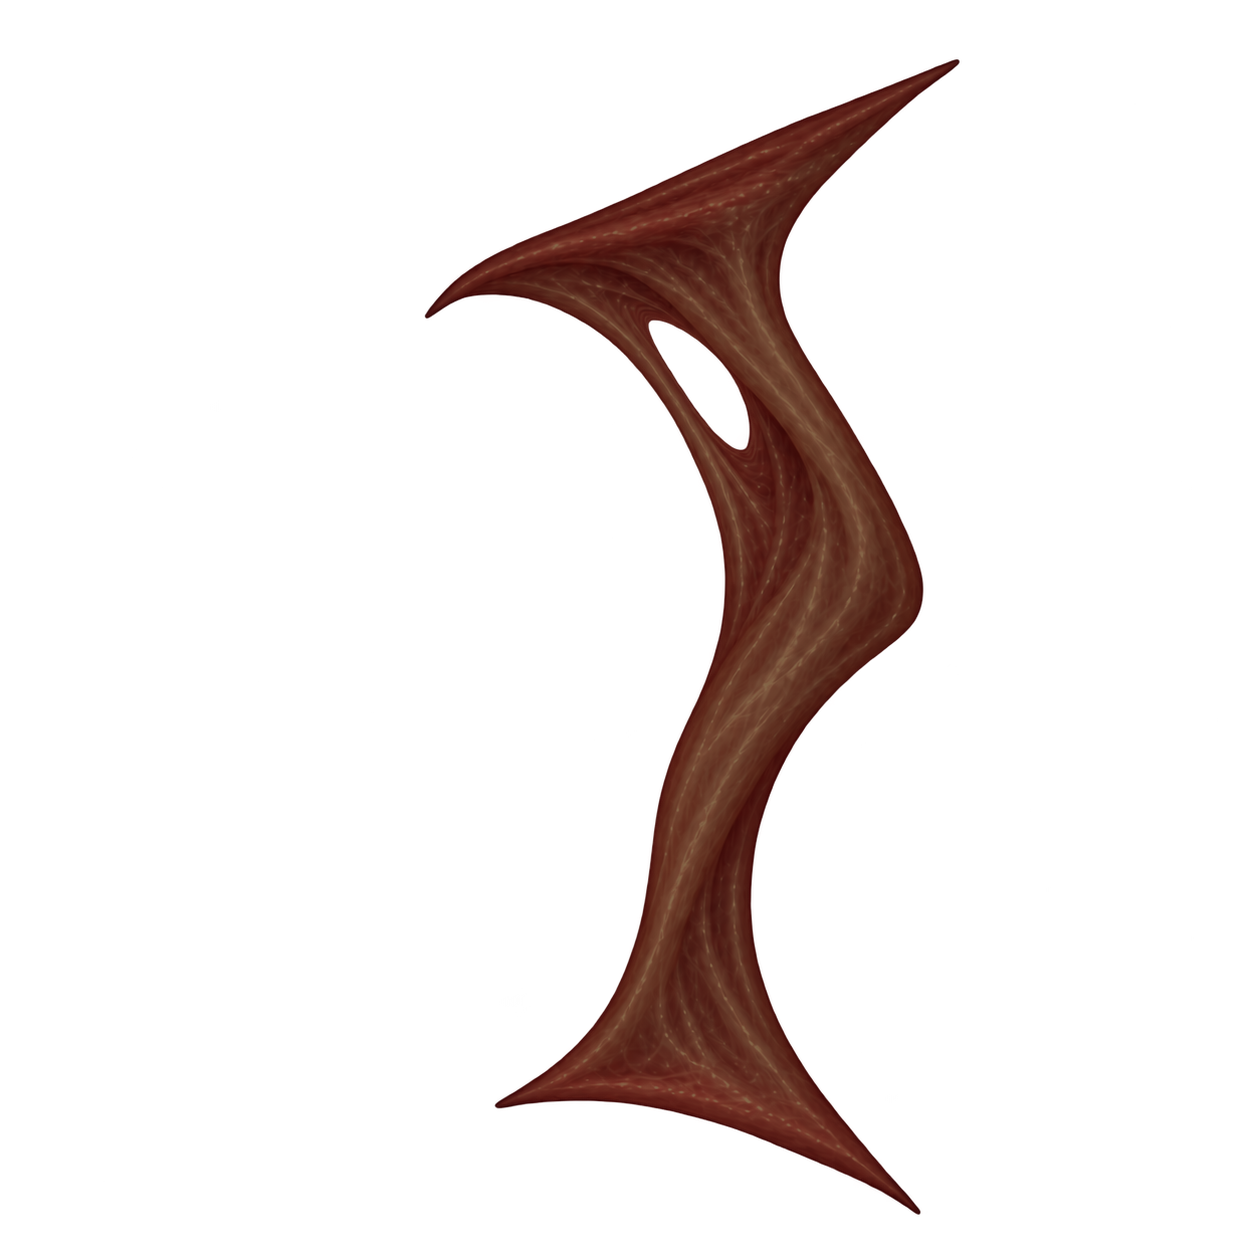
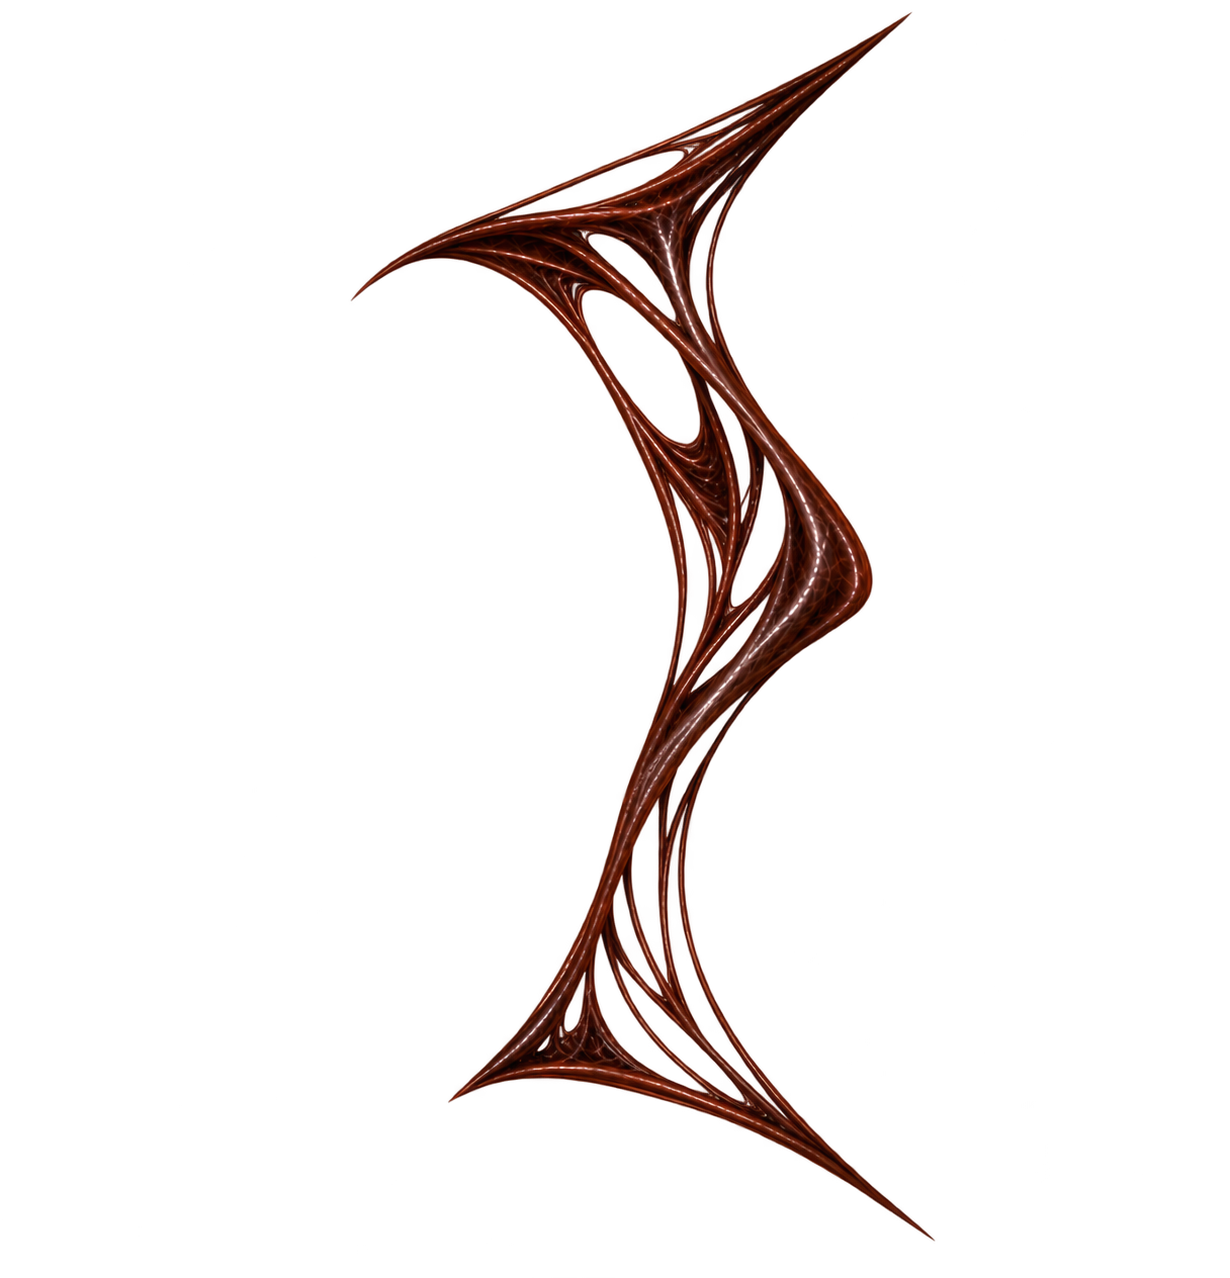
Substituir Aderencia 3 pela nova imagem transparente

diff --git a/app.html b/app.html
@@ -615,8 +615,8 @@
             <img src="assets/lesoes/aderencia-2-marrom-escuro.png?v=9ebaf7f9" alt="" style="object-fit: contain; border-radius: 0" />
             <span>Aderência 2</span>
           </button>
-          <button class="modelo-lesao" type="button" data-modelo="assets/lesoes/aderencia-3-marrom-escuro.png" data-nome="Aderência 3" data-proporcao="1" data-sem-recorte="true" data-tamanho-inicial="70">
-            <img src="assets/lesoes/aderencia-3-marrom-escuro.png" alt="" />
+          <button class="modelo-lesao" type="button" data-modelo="assets/lesoes/aderencia-3-marrom-escuro.png?v=a479b041" data-nome="Aderência 3" data-proporcao="0.9624413145539906" data-sem-recorte="true" data-tamanho-inicial="70">
+            <img src="assets/lesoes/aderencia-3-marrom-escuro.png?v=a479b041" alt="" style="object-fit: contain; border-radius: 0" />
             <span>Aderência 3</span>
           </button>
           <button class="modelo-lesao" type="button" data-modelo="assets/lesoes/aderencia-4-marrom-escuro.png" data-nome="Aderência 4" data-proporcao="1" data-sem-recorte="true" data-tamanho-inicial="65">
